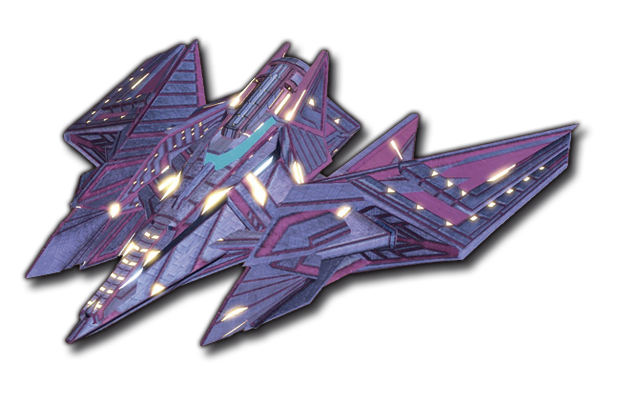
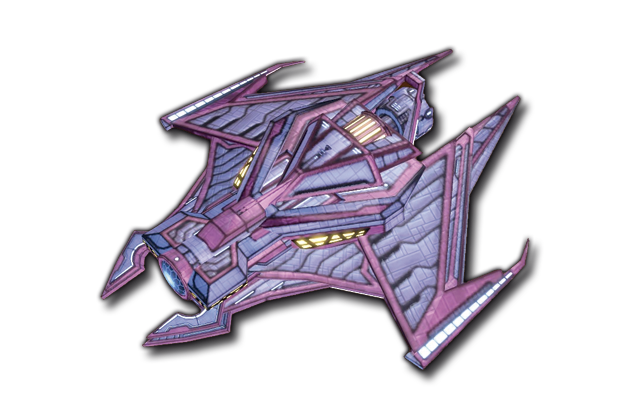
Nuevos artes. Diseño de carta de base, varios ajustes.

diff --git a/src/css/card-base.css b/src/css/card-base.css
@@ -3,7 +3,6 @@
     width: 1050px;
     height: 756px;
     margin: 0;
-    border: 1px solid black;
 }
 
 .card-base div.base {
@@ -17,23 +16,23 @@
 }
 
 .card-base div.base-biologic {
-    /*background-image: url(../assets/designs/base_biologic.png);*/
+    background-image: url(../assets/designs/base_biologic.png);
 }
 
 .card-base div.base-spectral {
-    /*background-image: url(../assets/designs/base_spectral.png);*/
+    background-image: url(../assets/designs/base_spectral.png);
 }
 
 .card-base div.base-dimensional {
-    /*background-image: url(../assets/designs/base_dimensional.png);*/
+    background-image: url(../assets/designs/base_dimensional.png);
 }
 
 .card-base div.art {
     position: absolute;
-    height: 430px;
+    height: 480px;
     width: 820px;
     top: 66px;
-    left: 100px;
+    left: 114px;
     background-position: center;
     background-repeat: no-repeat;
 }
@@ -51,11 +50,23 @@
 
 .card-base div.stats {
     position: absolute;
-    top: 127px;
-    left: 780px;
-    width: 207px;
-    height: 140px;
+    top: 71px;
+    left: 43px;
+    width: 205px;
+    height: 139px;
     background-repeat: no-repeat;
+}
+
+.card-base div.stats-biologic {
+    background-image: url(../assets/elements/base_stats_biologic.png);
+}
+
+.card-base div.stats-dimensional {
+    background-image: url(../assets/elements/base_stats_dimensional.png);
+}
+
+.card-base div.stats-spectral {
+    background-image: url(../assets/elements/base_stats_spectral.png);
 }
 
 .card-base div.stats-technologic {
@@ -64,8 +75,8 @@
 
 .card-base div.defense {
     font-size: 76px;
-    top: 157px;
-    left: 852px;
+    top: 68px;
+    left: 39px;
     width: 140px;
     height: 110px;
     line-height: 110px;
@@ -99,6 +110,18 @@
     text-shadow: 0 0 10px #ffffff, 0 0 10px #ffffff, 0 0 10px #ffffff, 0 0 10px #ffffff, 0 0 10px #ffffff, 0 0 10px #ffffff;
     font-family: 'orbitron', serif;
     display: inline-block;
+}
+
+.card-base div.special-text-biologic {
+    background-image: url(../assets/elements/base_special_biologic.png);
+}
+
+.card-base div.special-text-dimensional {
+    background-image: url(../assets/elements/base_special_dimensional.png);
+}
+
+.card-base div.special-text-spectral {
+    background-image: url(../assets/elements/base_special_spectral.png);
 }
 
 .card-base div.special-text-technologic {

diff --git a/src/js/index.js b/src/js/index.js
@@ -2,7 +2,6 @@ import domtoimage from "dom-to-image";
 import saveAs from "file-saver";
 
 let $ = require("jquery");
-let sorted = false;
 
 window.onload = function() {
 
@@ -29,21 +28,24 @@ window.onload = function() {
     let nodes = document.getElementsByClassName('card');
     for (let node of nodes) {
         let number = node.getAttribute('data-number');
+        let cardid = node.getAttribute('data-cardid');
 
-        /*
-        domtoimage.toBlob(node)
+        // domtoimage.toBlob(node)
+        //     .then(function (blob) {
+        //         saveAs(blob, number + ".png");
+        //     });
+
+        domtoimage.toJpeg(node, { quality: 1 })
             .then(function (blob) {
-                saveAs(blob, number + ".png");
+                saveAs(blob, cardid + ".jpg");
             });
-
-        */
-        //domtoimage.toJpeg(node, { quality: 1 })
 
         // domtoimage.toPng(node)
         //     .then(function (dataUrl) {
         //         var img = new Image();
         //         img.setAttribute("id", "card" + number);
         //         img.setAttribute("data-order", number);
+        //         img.setAttribute("data-cardid", cardid);
         //         img.src = dataUrl;
         //
         //         node.remove();
@@ -55,8 +57,6 @@ window.onload = function() {
     }
 
     $('#cards').click(function() {
-        if (sorted) return;
-
         let sorted_cards,
             getSorted = function (selector, attrName) {
                 return $(

diff --git a/src/css/card-unit.css b/src/css/card-unit.css
@@ -32,7 +32,7 @@
     height: 420px;
     width: 632px;
     top: 58px;
-    left: 62px;
+    left: 20px;
     background-position: center;
     background-repeat: no-repeat;
 }

diff --git a/src/sections/Index.php b/src/sections/Index.php
@@ -35,9 +35,14 @@ class Index extends SectionController
 
         foreach ($this->codex["card"] as $card)
         {
-            if ($card["type"] != "base") continue;
-            if (intval($card['number']) < 4) continue;
+//            if ($card["type"] != "base") continue;
+//            if (intval($card['number']) != 11) continue;
+//            if (intval($card['number']) < 4) continue;
 //            if (intval($card['number']) >= 20) continue;
+
+            if ($card['class'] != 'dimensional') continue;
+
+            $card["special"]["desc"][$this->lang] = $this->translate($card["special"]["desc"][$this->lang]);
 
             $card["vanguard"]["desc"][$this->lang] = $this->translate($card["vanguard"]["desc"][$this->lang]);
             $card["rearguard"]["desc"][$this->lang] = $this->translate($card["rearguard"]["desc"][$this->lang]);
@@ -80,6 +85,8 @@ class Index extends SectionController
             },
             $text
         );
+
+        $text = str_replace('\n', '<br/>', $text);
 
         return $text;
     }
